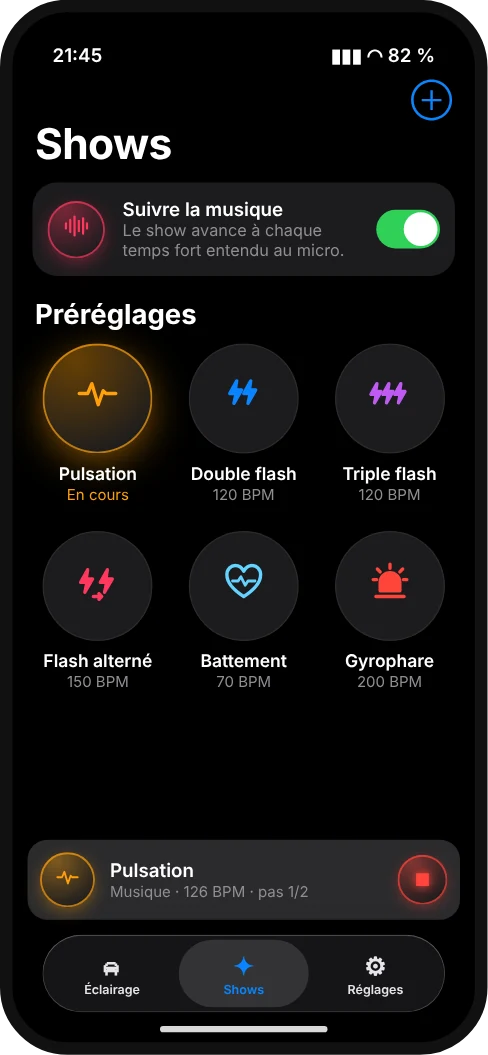
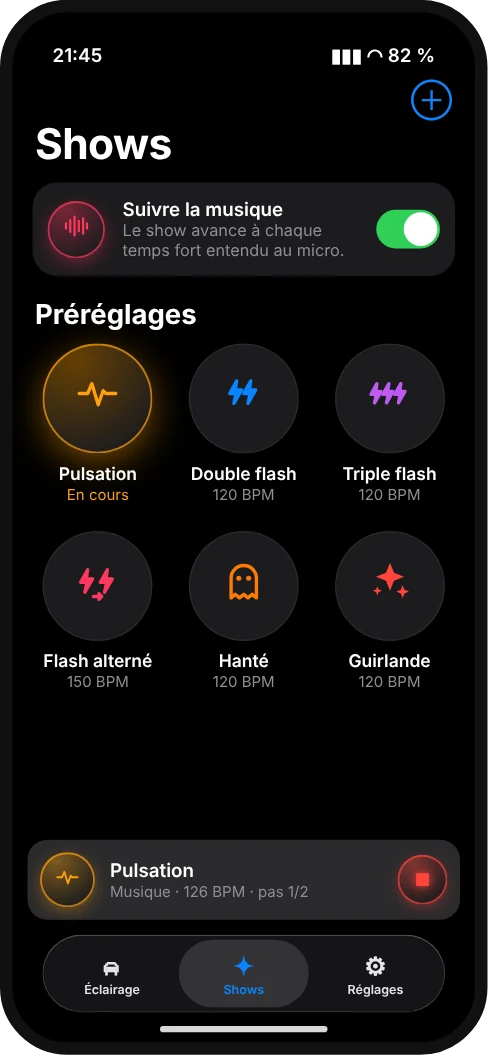
15 shows dans l'app : textes mis à jour
Claude-Session: https://claude.ai/code/session_01Ne71Qi7SAzvyxrbnibtzm8

diff --git a/index.html b/index.html
@@ -5,10 +5,10 @@
 <h1>Tes feux d'origine,<br>ton light show.</h1>
 <p class="lead">Pilote les feux de ta BMW série F depuis ton iPhone, compose des shows et fais-les danser sur ta musique. Sans modifier le codage.</p>
 <span class="cta big off">Bientôt sur l'App Store</span><div class="soon">iPhone · gratuit</div>
-<div class="demo"><div class="stage"><div class="car" role="img" aria-label="Voiture vue de face"><img class="base" src="assets/car/photo-front-off.jpg?v=3ed0d74f" alt=""><img class="lamp" data-id="f:drl-screenLeft" src="assets/car/photo-front-drl-screenLeft.jpg?v=8b609942" alt="" decoding="async"><img class="lamp" data-id="f:drl-screenRight" src="assets/car/photo-front-drl-screenRight.jpg?v=42eb1d79" alt="" decoding="async"><img class="lamp" data-id="f:low-screenLeft" src="assets/car/photo-front-low-screenLeft.jpg?v=6096d7ca" alt="" decoding="async"><img class="lamp" data-id="f:low-screenRight" src="assets/car/photo-front-low-screenRight.jpg?v=b19cccdc" alt="" decoding="async"><img class="lamp" data-id="f:high-screenLeft" src="assets/car/photo-front-high-screenLeft.jpg?v=daf786b5" alt="" decoding="async"><img class="lamp" data-id="f:high-screenRight" src="assets/car/photo-front-high-screenRight.jpg?v=22d8e6aa" alt="" decoding="async"><img class="lamp" data-id="f:fog-screenLeft" src="assets/car/photo-front-fog-screenLeft.jpg?v=f4934c1c" alt="" decoding="async"><img class="lamp" data-id="f:fog-screenRight" src="assets/car/photo-front-fog-screenRight.jpg?v=994affe2" alt="" decoding="async"><img class="lamp" data-id="f:indicator-screenLeft" src="assets/car/photo-front-indicator-screenLeft.jpg?v=ac9a9d8d" alt="" decoding="async"><img class="lamp" data-id="f:indicator-screenRight" src="assets/car/photo-front-indicator-screenRight.jpg?v=4b3f4ba7" alt="" decoding="async"><img class="lamp" data-id="f:interior" src="assets/car/photo-front-interior.jpg?v=fc6f959a" alt="" decoding="async"></div><div class="car" role="img" aria-label="Voiture vue de dos"><img class="base" src="assets/car/photo-rear-off.jpg?v=e54122f6" alt=""><img class="lamp" data-id="r:tail-screenLeft" src="assets/car/photo-rear-tail-screenLeft.jpg?v=d9da3cc4" alt="" decoding="async"><img class="lamp" data-id="r:tail-screenRight" src="assets/car/photo-rear-tail-screenRight.jpg?v=f7a3c5bd" alt="" decoding="async"><img class="lamp" data-id="r:indicator-screenLeft" src="assets/car/photo-rear-indicator-screenLeft.jpg?v=0fefcfe9" alt="" decoding="async"><img class="lamp" data-id="r:indicator-screenRight" src="assets/car/photo-rear-indicator-screenRight.jpg?v=7aba8e8f" alt="" decoding="async"><img class="lamp" data-id="r:reverse-screenLeft" src="assets/car/photo-rear-reverse-screenLeft.jpg?v=f5b0b301" alt="" decoding="async"><img class="lamp" data-id="r:reverse-screenRight" src="assets/car/photo-rear-reverse-screenRight.jpg?v=2404eeaf" alt="" decoding="async"><img class="lamp" data-id="r:brake" src="assets/car/photo-rear-brake.jpg?v=983cbe2e" alt="" decoding="async"><img class="lamp" data-id="r:fog" src="assets/car/photo-rear-fog.jpg?v=d857458e" alt="" decoding="async"><img class="lamp" data-id="r:interior" src="assets/car/photo-rear-interior.jpg?v=fd1ac59a" alt="" decoding="async"></div><canvas class="fx" aria-hidden="true"></canvas></div><div class="pads"><button class="pbtn" data-l="drl" style="--c:#ffd60a" aria-pressed="false"><span class="pp"><svg viewBox="0 0 32 32" width="26" height="26" fill="none" stroke="currentColor" stroke-width="2.4" stroke-linecap="round" stroke-linejoin="round"><path d="M19 6c5.5 0 9 4.5 9 10s-3.5 10-9 10z" fill="currentColor"/><path d="M14 8.5 9.5 6M14 13 8.5 12M14 19 8.5 20M14 23.5 9.5 26"/></svg></span><span class="pl">Feux de jour</span></button><button class="pbtn" data-l="low" style="--c:#0a84ff" aria-pressed="false"><span class="pp"><svg viewBox="0 0 32 32" width="26" height="26" fill="none" stroke="currentColor" stroke-width="2.4" stroke-linecap="round" stroke-linejoin="round"><path d="M19 6c5.5 0 9 4.5 9 10s-3.5 10-9 10z" fill="currentColor"/><path d="M14 9 5 12M14 14.5 5 17.5M14 20 5 23"/></svg></span><span class="pl">Croisement</span></button><button class="pbtn" data-l="high" style="--c:#0a84ff" aria-pressed="false"><span class="pp"><svg viewBox="0 0 32 32" width="26" height="26" fill="none" stroke="currentColor" stroke-width="2.4" stroke-linecap="round" stroke-linejoin="round"><path d="M19 6c5.5 0 9 4.5 9 10s-3.5 10-9 10z" fill="currentColor"/><path d="M14 10H4M14 16H4M14 22H4"/></svg></span><span class="pl">Route</span></button><button class="pbtn" data-l="fog" style="--c:#ffd60a" aria-pressed="false"><span class="pp"><svg viewBox="0 0 32 32" width="26" height="26" fill="none" stroke="currentColor" stroke-width="2.4" stroke-linecap="round" stroke-linejoin="round"><path d="M19 6c5.5 0 9 4.5 9 10s-3.5 10-9 10z" fill="currentColor"/><path d="M14 10 4 12M14 16 4 18M14 22 4 24"/><path d="M9.5 6q2.5 3 0 6t0 6 0 6 0 6" stroke-width="2"/></svg></span><span class="pl">Antibrouillard</span></button><button class="pbtn" data-l="indL" style="--c:#ff9f0a" aria-pressed="false"><span class="pp"><svg viewBox="0 0 32 32" width="26" height="26" fill="none" stroke="currentColor" stroke-width="2.4" stroke-linecap="round" stroke-linejoin="round"><path d="M4 16 14 6v6h14v8H14v6z" fill="currentColor"/></svg></span><span class="pl">Clignotant G</span></button><button class="pbtn" data-l="indR" style="--c:#ff9f0a" aria-pressed="false"><span class="pp"><span style="display:inline-flex;transform:scaleX(-1)"><svg viewBox="0 0 32 32" width="26" height="26" fill="none" stroke="currentColor" stroke-width="2.4" stroke-linecap="round" stroke-linejoin="round"><path d="M4 16 14 6v6h14v8H14v6z" fill="currentColor"/></svg></span></span><span class="pl">Clignotant D</span></button><button class="pbtn" data-l="hazard" style="--c:#ff9f0a" aria-pressed="false"><span class="pp"><svg viewBox="0 0 32 32" width="26" height="26" fill="none" stroke="currentColor" stroke-width="2.4" stroke-linecap="round" stroke-linejoin="round"><path d="M16 3.5 29 27H3z"/><path d="M16 12.5 22.2 23H9.8z"/></svg></span><span class="pl">Warning</span></button><button class="pbtn" data-l="tail" style="--c:#ff453a" aria-pressed="false"><span class="pp"><svg viewBox="0 0 32 32" width="26" height="26" fill="none" stroke="currentColor" stroke-width="2.4" stroke-linecap="round" stroke-linejoin="round"><rect x="4" y="10" width="24" height="12" rx="4"/><rect x="8" y="14" width="16" height="4" rx="2" fill="currentColor"/></svg></span><span class="pl">Feux arrière</span></button><button class="pbtn" data-l="brake" style="--c:#ff453a" aria-pressed="false"><span class="pp"><svg viewBox="0 0 32 32" width="26" height="26" fill="none" stroke="currentColor" stroke-width="2.4" stroke-linecap="round" stroke-linejoin="round"><rect x="4" y="11" width="24" height="12" rx="4" fill="currentColor"/><path d="M9 6.5 7.5 4M16 6V3M23 6.5 24.5 4"/></svg></span><span class="pl">Stop</span></button><button class="pbtn" data-l="reverse" style="--c:#aeaeb2" aria-pressed="false"><span class="pp"><svg viewBox="0 0 32 32" width="26" height="26" fill="none" stroke="currentColor" stroke-width="2.4" stroke-linecap="round" stroke-linejoin="round"><rect x="5" y="5" width="22" height="22" rx="6"/><path d="M12.5 22.5v-13h5a3.8 3.8 0 0 1 0 7.6h-5M17.5 17l3.5 5.5" stroke-width="2.6"/></svg></span><span class="pl">Recul</span></button><button class="pbtn" data-l="inside" style="--c:#bfd9ff" aria-pressed="false"><span class="pp"><svg viewBox="0 0 32 32" width="26" height="26" fill="none" stroke="currentColor" stroke-width="2.4" stroke-linecap="round" stroke-linejoin="round"><path d="M5 9h22"/><path d="M9 9.5h14a7 7 0 0 1-14 0z" fill="currentColor"/><path d="M16 21v5M10 19.5l-2.5 4M22 19.5l2.5 4"/></svg></span><span class="pl">Intérieur</span></button><div class="showrow"><div class="sh">Shows</div><div class="shpads"><button class="pbtn" data-show="pulsation" style="--c:#ff9f0a" aria-pressed="false"><span class="pp"><svg viewBox="0 0 32 32" width="28" height="28" fill="none" stroke="currentColor" stroke-width="2.4" stroke-linecap="round" stroke-linejoin="round"><path d="M3 16h6l3-7 4.5 15 3.5-10 2 2h7"/></svg></span><span class="pl">Pulsation</span></button><button class="pbtn" data-show="double" style="--c:#0a84ff" aria-pressed="false"><span class="pp"><svg viewBox="0 0 32 32" width="28" height="28" fill="none" stroke="currentColor" stroke-width="2.4" stroke-linecap="round" stroke-linejoin="round"><path d="M11 7l-5 9h4.5l-1.5 7 5.5-9.5h-4.5z" fill="currentColor"/><path d="M21 7l-5 9h4.5l-1.5 7 5.5-9.5h-4.5z" fill="currentColor"/></svg></span><span class="pl">Double flash</span></button><button class="pbtn" data-show="bienvenue" style="--c:#30d158" aria-pressed="false"><span class="pp"><svg viewBox="0 0 32 32" width="28" height="28" fill="none" stroke="currentColor" stroke-width="2.4" stroke-linecap="round" stroke-linejoin="round"><path d="M5 22v-6l3-6h16l3 6v6z"/><circle cx="10" cy="17" r="2" fill="currentColor"/><circle cx="22" cy="17" r="2" fill="currentColor"/><path d="M6.5 22v3M25.5 22v3M16 2v3M10 4l1.5 2M22 4l-1.5 2"/></svg></span><span class="pl">Bienvenue</span></button><button class="pbtn" data-show="hante" data-theme-only="halloween" style="--c:#ff7a00" aria-pressed="false" hidden><span class="pp"><svg viewBox="0 0 32 32" width="28" height="28" fill="none" stroke="currentColor" stroke-width="2.4" stroke-linejoin="round"><path d="M7 28V14a9 9 0 0 1 18 0v14l-3-2.5-3 2.5-3-2.5-3 2.5-3-2.5z" fill="currentColor" fill-opacity=".25"/><circle cx="12.5" cy="14" r="1.8" fill="currentColor"/><circle cx="19.5" cy="14" r="1.8" fill="currentColor"/></svg></span><span class="pl">Hanté</span></button><button class="pbtn" data-show="guirlande" data-theme-only="noel" style="--c:#ff453a" aria-pressed="false" hidden><span class="pp"><svg viewBox="0 0 32 32" width="28" height="28" fill="currentColor"><path d="M16 3l2.6 7.4L26 13l-7.4 2.6L16 23l-2.6-7.4L6 13l7.4-2.6z"/><path d="M25 19l1.2 3.3 3.3 1.2-3.3 1.2L25 28l-1.2-3.3-3.3-1.2 3.3-1.2z"/><path d="M7 20l.9 2.4 2.4.9-2.4.9L7 26.6l-.9-2.4-2.4-.9 2.4-.9z"/></svg></span><span class="pl">Guirlande</span></button></div><button class="pbtn showbtn" data-show="mix" style="--c:#bf5af2" aria-pressed="false"><span class="pp"><svg viewBox="0 0 32 32" width="22" height="22" fill="none" stroke="currentColor" stroke-width="2.4" stroke-linecap="round" stroke-linejoin="round"><path d="M3 16h6l3-7 4.5 15 3.5-10 2 2h7"/></svg></span><span class="pl">Lancer un show</span></button><div class="shmore">+ 10 autres shows dans l'app, et ils suivent ta musique.</div></div></div><div class="hint">Touche une pastille : les feux s'allument comme dans l'app.</div></div></div></div>
-<section><div class="wrap"><h2>Tes feux, ton style.</h2><p class="sub">Pensée pour les passionnés, faite pour briller la nuit.</p><div class="features"><div class="feat"><div class="past" style="width:60px;height:60px;color:#0a84ff;background:radial-gradient(120% 120% at 30% 15%, #0a84ff66, #1c1c1e 75%);box-shadow:0 0 0 1.5px #0a84ffb3 inset,0 6px 22px -4px #0a84ff99"><div style="display:flex;filter:drop-shadow(0 0 6px #0a84ff)"><svg viewBox="0 0 32 32" width="30" height="30" fill="none" stroke="#0a84ff" stroke-width="2.4" stroke-linecap="round" stroke-linejoin="round"><path d="M19 6c5.5 0 9 4.5 9 10s-3.5 10-9 10z" fill="#0a84ff"/><path d="M14 9 5 12M14 14.5 5 17.5M14 20 5 23"/></svg></div></div><h3>Tes feux, en direct</h3><p>Croisement, route, clignotants, stop, recul, et même l'éclairage intérieur. Touche une pastille, le feu s'allume. Mode « Maintenir » à plusieurs doigts.</p></div><div class="feat"><div class="past" style="width:60px;height:60px;color:#ff375f;background:radial-gradient(120% 120% at 30% 15%, #ff375f66, #1c1c1e 75%);box-shadow:0 0 0 1.5px #ff375fb3 inset,0 6px 22px -4px #ff375f99"><div style="display:flex;filter:drop-shadow(0 0 6px #ff375f)"><svg viewBox="0 0 32 32" width="28" height="28" stroke="#ff375f" stroke-width="2.6" stroke-linecap="round"><path d="M4 13v6M9 9v14M14 5v22M19 10v12M24 7v18M28.5 13v6"/></svg></div></div><h3>Suit la musique</h3><p>L'iPhone écoute le rythme au micro et fait danser tes feux sur chaque temps fort. Rien n'est enregistré.</p></div><div class="feat"><div class="past" style="width:60px;height:60px;color:#ff9f0a;background:radial-gradient(120% 120% at 30% 15%, #ff9f0a66, #1c1c1e 75%);box-shadow:0 0 0 1.5px #ff9f0ab3 inset,0 6px 22px -4px #ff9f0a99"><div style="display:flex;filter:drop-shadow(0 0 6px #ff9f0a)"><svg viewBox="0 0 32 32" width="30" height="30" fill="none" stroke="#ff9f0a" stroke-width="2.4" stroke-linecap="round" stroke-linejoin="round"><path d="M3 16h6l3-7 4.5 15 3.5-10 2 2h7"/></svg></div></div><h3>13 shows prêts</h3><p>Pulsation, double flash, gyrophare, vague, bienvenue… Lance un show en un appui.</p></div><div class="feat"><div class="past" style="width:60px;height:60px;color:#bf5af2;background:radial-gradient(120% 120% at 30% 15%, #bf5af266, #1c1c1e 75%);box-shadow:0 0 0 1.5px #bf5af2b3 inset,0 6px 22px -4px #bf5af299"><div style="display:flex;filter:drop-shadow(0 0 6px #bf5af2)"><svg viewBox="0 0 32 32" width="28" height="28" fill="#bf5af2"><rect x="4" y="5" width="6" height="6" rx="1.5"/><rect x="13" y="5" width="6" height="6" rx="1.5" opacity=.35/><rect x="22" y="5" width="6" height="6" rx="1.5"/><rect x="4" y="14" width="6" height="6" rx="1.5" opacity=.35/><rect x="13" y="14" width="6" height="6" rx="1.5"/><rect x="22" y="14" width="6" height="6" rx="1.5" opacity=.35/><rect x="4" y="23" width="6" height="6" rx="1.5"/><rect x="13" y="23" width="6" height="6" rx="1.5" opacity=.35/><rect x="22" y="23" width="6" height="6" rx="1.5"/></svg></div></div><h3>Crée tes shows</h3><p>Une grille feux × pas pour composer tes séquences, ou enregistre en direct ce que tu joues.</p></div><div class="feat"><div class="past" style="width:60px;height:60px;color:#ffd60a;background:radial-gradient(120% 120% at 30% 15%, #ffd60a66, #1c1c1e 75%);box-shadow:0 0 0 1.5px #ffd60ab3 inset,0 6px 22px -4px #ffd60a99"><div style="display:flex;filter:drop-shadow(0 0 6px #ffd60a)"><svg viewBox="0 0 32 32" width="30" height="30" fill="none" stroke="#ffd60a" stroke-width="2.4" stroke-linecap="round" stroke-linejoin="round"><path d="M19 6c5.5 0 9 4.5 9 10s-3.5 10-9 10z" fill="#ffd60a"/><path d="M14 8.5 9.5 6M14 13 8.5 12M14 19 8.5 20M14 23.5 9.5 26"/></svg></div></div><h3>Ta voiture à l'écran</h3><p>Vue avant et arrière réalistes qui s'allument feu par feu, en même temps que la vraie.</p></div><div class="feat"><div class="past" style="width:60px;height:60px;color:#30d158;background:radial-gradient(120% 120% at 30% 15%, #30d15866, #1c1c1e 75%);box-shadow:0 0 0 1.5px #30d158b3 inset,0 6px 22px -4px #30d15899"><div style="display:flex;filter:drop-shadow(0 0 6px #30d158)"><svg viewBox="0 0 32 32" width="28" height="28" fill="none" stroke="#30d158" stroke-width="2.4" stroke-linecap="round" stroke-linejoin="round"><path d="M16 3 27 7v8c0 7-5 12-11 14C10 27 5 22 5 15V7z"/><path d="m11 16 4 4 7-8"/></svg></div></div><h3>Sans risque</h3><p>Aucun codage modifié. Commandes temporaires seulement : la voiture reprend la main à la fin d'un show.</p></div></div></div></section>
+<div class="demo"><div class="stage"><div class="car" role="img" aria-label="Voiture vue de face"><img class="base" src="assets/car/photo-front-off.jpg?v=3ed0d74f" alt=""><img class="lamp" data-id="f:drl-screenLeft" src="assets/car/photo-front-drl-screenLeft.jpg?v=8b609942" alt="" decoding="async"><img class="lamp" data-id="f:drl-screenRight" src="assets/car/photo-front-drl-screenRight.jpg?v=42eb1d79" alt="" decoding="async"><img class="lamp" data-id="f:low-screenLeft" src="assets/car/photo-front-low-screenLeft.jpg?v=6096d7ca" alt="" decoding="async"><img class="lamp" data-id="f:low-screenRight" src="assets/car/photo-front-low-screenRight.jpg?v=b19cccdc" alt="" decoding="async"><img class="lamp" data-id="f:high-screenLeft" src="assets/car/photo-front-high-screenLeft.jpg?v=daf786b5" alt="" decoding="async"><img class="lamp" data-id="f:high-screenRight" src="assets/car/photo-front-high-screenRight.jpg?v=22d8e6aa" alt="" decoding="async"><img class="lamp" data-id="f:fog-screenLeft" src="assets/car/photo-front-fog-screenLeft.jpg?v=f4934c1c" alt="" decoding="async"><img class="lamp" data-id="f:fog-screenRight" src="assets/car/photo-front-fog-screenRight.jpg?v=994affe2" alt="" decoding="async"><img class="lamp" data-id="f:indicator-screenLeft" src="assets/car/photo-front-indicator-screenLeft.jpg?v=ac9a9d8d" alt="" decoding="async"><img class="lamp" data-id="f:indicator-screenRight" src="assets/car/photo-front-indicator-screenRight.jpg?v=4b3f4ba7" alt="" decoding="async"><img class="lamp" data-id="f:interior" src="assets/car/photo-front-interior.jpg?v=fc6f959a" alt="" decoding="async"></div><div class="car" role="img" aria-label="Voiture vue de dos"><img class="base" src="assets/car/photo-rear-off.jpg?v=e54122f6" alt=""><img class="lamp" data-id="r:tail-screenLeft" src="assets/car/photo-rear-tail-screenLeft.jpg?v=d9da3cc4" alt="" decoding="async"><img class="lamp" data-id="r:tail-screenRight" src="assets/car/photo-rear-tail-screenRight.jpg?v=f7a3c5bd" alt="" decoding="async"><img class="lamp" data-id="r:indicator-screenLeft" src="assets/car/photo-rear-indicator-screenLeft.jpg?v=0fefcfe9" alt="" decoding="async"><img class="lamp" data-id="r:indicator-screenRight" src="assets/car/photo-rear-indicator-screenRight.jpg?v=7aba8e8f" alt="" decoding="async"><img class="lamp" data-id="r:reverse-screenLeft" src="assets/car/photo-rear-reverse-screenLeft.jpg?v=f5b0b301" alt="" decoding="async"><img class="lamp" data-id="r:reverse-screenRight" src="assets/car/photo-rear-reverse-screenRight.jpg?v=2404eeaf" alt="" decoding="async"><img class="lamp" data-id="r:brake" src="assets/car/photo-rear-brake.jpg?v=983cbe2e" alt="" decoding="async"><img class="lamp" data-id="r:fog" src="assets/car/photo-rear-fog.jpg?v=d857458e" alt="" decoding="async"><img class="lamp" data-id="r:interior" src="assets/car/photo-rear-interior.jpg?v=fd1ac59a" alt="" decoding="async"></div><canvas class="fx" aria-hidden="true"></canvas></div><div class="pads"><button class="pbtn" data-l="drl" style="--c:#ffd60a" aria-pressed="false"><span class="pp"><svg viewBox="0 0 32 32" width="26" height="26" fill="none" stroke="currentColor" stroke-width="2.4" stroke-linecap="round" stroke-linejoin="round"><path d="M19 6c5.5 0 9 4.5 9 10s-3.5 10-9 10z" fill="currentColor"/><path d="M14 8.5 9.5 6M14 13 8.5 12M14 19 8.5 20M14 23.5 9.5 26"/></svg></span><span class="pl">Feux de jour</span></button><button class="pbtn" data-l="low" style="--c:#0a84ff" aria-pressed="false"><span class="pp"><svg viewBox="0 0 32 32" width="26" height="26" fill="none" stroke="currentColor" stroke-width="2.4" stroke-linecap="round" stroke-linejoin="round"><path d="M19 6c5.5 0 9 4.5 9 10s-3.5 10-9 10z" fill="currentColor"/><path d="M14 9 5 12M14 14.5 5 17.5M14 20 5 23"/></svg></span><span class="pl">Croisement</span></button><button class="pbtn" data-l="high" style="--c:#0a84ff" aria-pressed="false"><span class="pp"><svg viewBox="0 0 32 32" width="26" height="26" fill="none" stroke="currentColor" stroke-width="2.4" stroke-linecap="round" stroke-linejoin="round"><path d="M19 6c5.5 0 9 4.5 9 10s-3.5 10-9 10z" fill="currentColor"/><path d="M14 10H4M14 16H4M14 22H4"/></svg></span><span class="pl">Route</span></button><button class="pbtn" data-l="fog" style="--c:#ffd60a" aria-pressed="false"><span class="pp"><svg viewBox="0 0 32 32" width="26" height="26" fill="none" stroke="currentColor" stroke-width="2.4" stroke-linecap="round" stroke-linejoin="round"><path d="M19 6c5.5 0 9 4.5 9 10s-3.5 10-9 10z" fill="currentColor"/><path d="M14 10 4 12M14 16 4 18M14 22 4 24"/><path d="M9.5 6q2.5 3 0 6t0 6 0 6 0 6" stroke-width="2"/></svg></span><span class="pl">Antibrouillard</span></button><button class="pbtn" data-l="indL" style="--c:#ff9f0a" aria-pressed="false"><span class="pp"><svg viewBox="0 0 32 32" width="26" height="26" fill="none" stroke="currentColor" stroke-width="2.4" stroke-linecap="round" stroke-linejoin="round"><path d="M4 16 14 6v6h14v8H14v6z" fill="currentColor"/></svg></span><span class="pl">Clignotant G</span></button><button class="pbtn" data-l="indR" style="--c:#ff9f0a" aria-pressed="false"><span class="pp"><span style="display:inline-flex;transform:scaleX(-1)"><svg viewBox="0 0 32 32" width="26" height="26" fill="none" stroke="currentColor" stroke-width="2.4" stroke-linecap="round" stroke-linejoin="round"><path d="M4 16 14 6v6h14v8H14v6z" fill="currentColor"/></svg></span></span><span class="pl">Clignotant D</span></button><button class="pbtn" data-l="hazard" style="--c:#ff9f0a" aria-pressed="false"><span class="pp"><svg viewBox="0 0 32 32" width="26" height="26" fill="none" stroke="currentColor" stroke-width="2.4" stroke-linecap="round" stroke-linejoin="round"><path d="M16 3.5 29 27H3z"/><path d="M16 12.5 22.2 23H9.8z"/></svg></span><span class="pl">Warning</span></button><button class="pbtn" data-l="tail" style="--c:#ff453a" aria-pressed="false"><span class="pp"><svg viewBox="0 0 32 32" width="26" height="26" fill="none" stroke="currentColor" stroke-width="2.4" stroke-linecap="round" stroke-linejoin="round"><rect x="4" y="10" width="24" height="12" rx="4"/><rect x="8" y="14" width="16" height="4" rx="2" fill="currentColor"/></svg></span><span class="pl">Feux arrière</span></button><button class="pbtn" data-l="brake" style="--c:#ff453a" aria-pressed="false"><span class="pp"><svg viewBox="0 0 32 32" width="26" height="26" fill="none" stroke="currentColor" stroke-width="2.4" stroke-linecap="round" stroke-linejoin="round"><rect x="4" y="11" width="24" height="12" rx="4" fill="currentColor"/><path d="M9 6.5 7.5 4M16 6V3M23 6.5 24.5 4"/></svg></span><span class="pl">Stop</span></button><button class="pbtn" data-l="reverse" style="--c:#aeaeb2" aria-pressed="false"><span class="pp"><svg viewBox="0 0 32 32" width="26" height="26" fill="none" stroke="currentColor" stroke-width="2.4" stroke-linecap="round" stroke-linejoin="round"><rect x="5" y="5" width="22" height="22" rx="6"/><path d="M12.5 22.5v-13h5a3.8 3.8 0 0 1 0 7.6h-5M17.5 17l3.5 5.5" stroke-width="2.6"/></svg></span><span class="pl">Recul</span></button><button class="pbtn" data-l="inside" style="--c:#bfd9ff" aria-pressed="false"><span class="pp"><svg viewBox="0 0 32 32" width="26" height="26" fill="none" stroke="currentColor" stroke-width="2.4" stroke-linecap="round" stroke-linejoin="round"><path d="M5 9h22"/><path d="M9 9.5h14a7 7 0 0 1-14 0z" fill="currentColor"/><path d="M16 21v5M10 19.5l-2.5 4M22 19.5l2.5 4"/></svg></span><span class="pl">Intérieur</span></button><div class="showrow"><div class="sh">Shows</div><div class="shpads"><button class="pbtn" data-show="pulsation" style="--c:#ff9f0a" aria-pressed="false"><span class="pp"><svg viewBox="0 0 32 32" width="28" height="28" fill="none" stroke="currentColor" stroke-width="2.4" stroke-linecap="round" stroke-linejoin="round"><path d="M3 16h6l3-7 4.5 15 3.5-10 2 2h7"/></svg></span><span class="pl">Pulsation</span></button><button class="pbtn" data-show="double" style="--c:#0a84ff" aria-pressed="false"><span class="pp"><svg viewBox="0 0 32 32" width="28" height="28" fill="none" stroke="currentColor" stroke-width="2.4" stroke-linecap="round" stroke-linejoin="round"><path d="M11 7l-5 9h4.5l-1.5 7 5.5-9.5h-4.5z" fill="currentColor"/><path d="M21 7l-5 9h4.5l-1.5 7 5.5-9.5h-4.5z" fill="currentColor"/></svg></span><span class="pl">Double flash</span></button><button class="pbtn" data-show="bienvenue" style="--c:#30d158" aria-pressed="false"><span class="pp"><svg viewBox="0 0 32 32" width="28" height="28" fill="none" stroke="currentColor" stroke-width="2.4" stroke-linecap="round" stroke-linejoin="round"><path d="M5 22v-6l3-6h16l3 6v6z"/><circle cx="10" cy="17" r="2" fill="currentColor"/><circle cx="22" cy="17" r="2" fill="currentColor"/><path d="M6.5 22v3M25.5 22v3M16 2v3M10 4l1.5 2M22 4l-1.5 2"/></svg></span><span class="pl">Bienvenue</span></button><button class="pbtn" data-show="hante" data-theme-only="halloween" style="--c:#ff7a00" aria-pressed="false" hidden><span class="pp"><svg viewBox="0 0 32 32" width="28" height="28" fill="none" stroke="currentColor" stroke-width="2.4" stroke-linejoin="round"><path d="M7 28V14a9 9 0 0 1 18 0v14l-3-2.5-3 2.5-3-2.5-3 2.5-3-2.5z" fill="currentColor" fill-opacity=".25"/><circle cx="12.5" cy="14" r="1.8" fill="currentColor"/><circle cx="19.5" cy="14" r="1.8" fill="currentColor"/></svg></span><span class="pl">Hanté</span></button><button class="pbtn" data-show="guirlande" data-theme-only="noel" style="--c:#ff453a" aria-pressed="false" hidden><span class="pp"><svg viewBox="0 0 32 32" width="28" height="28" fill="currentColor"><path d="M16 3l2.6 7.4L26 13l-7.4 2.6L16 23l-2.6-7.4L6 13l7.4-2.6z"/><path d="M25 19l1.2 3.3 3.3 1.2-3.3 1.2L25 28l-1.2-3.3-3.3-1.2 3.3-1.2z"/><path d="M7 20l.9 2.4 2.4.9-2.4.9L7 26.6l-.9-2.4-2.4-.9 2.4-.9z"/></svg></span><span class="pl">Guirlande</span></button></div><button class="pbtn showbtn" data-show="mix" style="--c:#bf5af2" aria-pressed="false"><span class="pp"><svg viewBox="0 0 32 32" width="22" height="22" fill="none" stroke="currentColor" stroke-width="2.4" stroke-linecap="round" stroke-linejoin="round"><path d="M3 16h6l3-7 4.5 15 3.5-10 2 2h7"/></svg></span><span class="pl">Lancer un show</span></button><div class="shmore">+ 12 autres shows dans l'app, et ils suivent ta musique.</div></div></div><div class="hint">Touche une pastille : les feux s'allument comme dans l'app.</div></div></div></div>
+<section><div class="wrap"><h2>Tes feux, ton style.</h2><p class="sub">Pensée pour les passionnés, faite pour briller la nuit.</p><div class="features"><div class="feat"><div class="past" style="width:60px;height:60px;color:#0a84ff;background:radial-gradient(120% 120% at 30% 15%, #0a84ff66, #1c1c1e 75%);box-shadow:0 0 0 1.5px #0a84ffb3 inset,0 6px 22px -4px #0a84ff99"><div style="display:flex;filter:drop-shadow(0 0 6px #0a84ff)"><svg viewBox="0 0 32 32" width="30" height="30" fill="none" stroke="#0a84ff" stroke-width="2.4" stroke-linecap="round" stroke-linejoin="round"><path d="M19 6c5.5 0 9 4.5 9 10s-3.5 10-9 10z" fill="#0a84ff"/><path d="M14 9 5 12M14 14.5 5 17.5M14 20 5 23"/></svg></div></div><h3>Tes feux, en direct</h3><p>Croisement, route, clignotants, stop, recul, et même l'éclairage intérieur. Touche une pastille, le feu s'allume. Mode « Maintenir » à plusieurs doigts.</p></div><div class="feat"><div class="past" style="width:60px;height:60px;color:#ff375f;background:radial-gradient(120% 120% at 30% 15%, #ff375f66, #1c1c1e 75%);box-shadow:0 0 0 1.5px #ff375fb3 inset,0 6px 22px -4px #ff375f99"><div style="display:flex;filter:drop-shadow(0 0 6px #ff375f)"><svg viewBox="0 0 32 32" width="28" height="28" stroke="#ff375f" stroke-width="2.6" stroke-linecap="round"><path d="M4 13v6M9 9v14M14 5v22M19 10v12M24 7v18M28.5 13v6"/></svg></div></div><h3>Suit la musique</h3><p>L'iPhone écoute le rythme au micro et fait danser tes feux sur chaque temps fort. Rien n'est enregistré.</p></div><div class="feat"><div class="past" style="width:60px;height:60px;color:#ff9f0a;background:radial-gradient(120% 120% at 30% 15%, #ff9f0a66, #1c1c1e 75%);box-shadow:0 0 0 1.5px #ff9f0ab3 inset,0 6px 22px -4px #ff9f0a99"><div style="display:flex;filter:drop-shadow(0 0 6px #ff9f0a)"><svg viewBox="0 0 32 32" width="30" height="30" fill="none" stroke="#ff9f0a" stroke-width="2.4" stroke-linecap="round" stroke-linejoin="round"><path d="M3 16h6l3-7 4.5 15 3.5-10 2 2h7"/></svg></div></div><h3>15 shows prêts</h3><p>Pulsation, double flash, gyrophare, bienvenue, hanté, guirlande… Lance un show en un appui.</p></div><div class="feat"><div class="past" style="width:60px;height:60px;color:#bf5af2;background:radial-gradient(120% 120% at 30% 15%, #bf5af266, #1c1c1e 75%);box-shadow:0 0 0 1.5px #bf5af2b3 inset,0 6px 22px -4px #bf5af299"><div style="display:flex;filter:drop-shadow(0 0 6px #bf5af2)"><svg viewBox="0 0 32 32" width="28" height="28" fill="#bf5af2"><rect x="4" y="5" width="6" height="6" rx="1.5"/><rect x="13" y="5" width="6" height="6" rx="1.5" opacity=.35/><rect x="22" y="5" width="6" height="6" rx="1.5"/><rect x="4" y="14" width="6" height="6" rx="1.5" opacity=.35/><rect x="13" y="14" width="6" height="6" rx="1.5"/><rect x="22" y="14" width="6" height="6" rx="1.5" opacity=.35/><rect x="4" y="23" width="6" height="6" rx="1.5"/><rect x="13" y="23" width="6" height="6" rx="1.5" opacity=.35/><rect x="22" y="23" width="6" height="6" rx="1.5"/></svg></div></div><h3>Crée tes shows</h3><p>Une grille feux × pas pour composer tes séquences, ou enregistre en direct ce que tu joues.</p></div><div class="feat"><div class="past" style="width:60px;height:60px;color:#ffd60a;background:radial-gradient(120% 120% at 30% 15%, #ffd60a66, #1c1c1e 75%);box-shadow:0 0 0 1.5px #ffd60ab3 inset,0 6px 22px -4px #ffd60a99"><div style="display:flex;filter:drop-shadow(0 0 6px #ffd60a)"><svg viewBox="0 0 32 32" width="30" height="30" fill="none" stroke="#ffd60a" stroke-width="2.4" stroke-linecap="round" stroke-linejoin="round"><path d="M19 6c5.5 0 9 4.5 9 10s-3.5 10-9 10z" fill="#ffd60a"/><path d="M14 8.5 9.5 6M14 13 8.5 12M14 19 8.5 20M14 23.5 9.5 26"/></svg></div></div><h3>Ta voiture à l'écran</h3><p>Vue avant et arrière réalistes qui s'allument feu par feu, en même temps que la vraie.</p></div><div class="feat"><div class="past" style="width:60px;height:60px;color:#30d158;background:radial-gradient(120% 120% at 30% 15%, #30d15866, #1c1c1e 75%);box-shadow:0 0 0 1.5px #30d158b3 inset,0 6px 22px -4px #30d15899"><div style="display:flex;filter:drop-shadow(0 0 6px #30d158)"><svg viewBox="0 0 32 32" width="28" height="28" fill="none" stroke="#30d158" stroke-width="2.4" stroke-linecap="round" stroke-linejoin="round"><path d="M16 3 27 7v8c0 7-5 12-11 14C10 27 5 22 5 15V7z"/><path d="m11 16 4 4 7-8"/></svg></div></div><h3>Sans risque</h3><p>Aucun codage modifié. Commandes temporaires seulement : la voiture reprend la main à la fin d'un show.</p></div></div></div></section>
 <section class="band"><div class="wrap"><h2>Pensée pour la nuit.</h2><p class="sub">Les écrans de l'app.</p>
-<div class="shots"><img src="assets/img/04-eclairage.webp?v=7e8026c5" alt="Écran Éclairage de l&#x27;app, vue avant" width="488" height="1055" loading="lazy"><img src="assets/img/07-shows.webp?v=ce0a8693" alt="Écran Shows et ses préréglages" width="488" height="1055" loading="lazy"><img src="assets/img/08-lecteur-musique.webp?v=91d63923" alt="Lecteur de show qui suit la musique" width="488" height="1055" loading="lazy"><img src="assets/img/04c-arriere-stop-recul.webp?v=60026568" alt="Écran Éclairage, vue arrière" width="488" height="1055" loading="lazy"></div></div></section>
+<div class="shots"><img src="assets/img/04-eclairage.webp?v=7e8026c5" alt="Écran Éclairage de l&#x27;app, vue avant" width="488" height="1055" loading="lazy"><img src="assets/img/07-shows.webp?v=56bbff44" alt="Écran Shows et ses préréglages" width="488" height="1055" loading="lazy"><img src="assets/img/08-lecteur-musique.webp?v=91d63923" alt="Lecteur de show qui suit la musique" width="488" height="1055" loading="lazy"><img src="assets/img/04c-arriere-stop-recul.webp?v=60026568" alt="Écran Éclairage, vue arrière" width="488" height="1055" loading="lazy"></div></div></section>
 <section><div class="wrap"><h2>Prêt en 3 étapes.</h2><p class="sub">Il suffit d'un adaptateur OBD Bluetooth.</p>
 <div class="steps"><div><div class="n">1</div><h3>Branche l'adaptateur</h3><p>Sur la prise OBD, sous le volant, contact mis.</p></div>
 <div><div class="n">2</div><h3>Connecte-toi</h3><p>L'app trouve l'adaptateur et vérifie ta voiture, sans rien allumer.</p></div>
